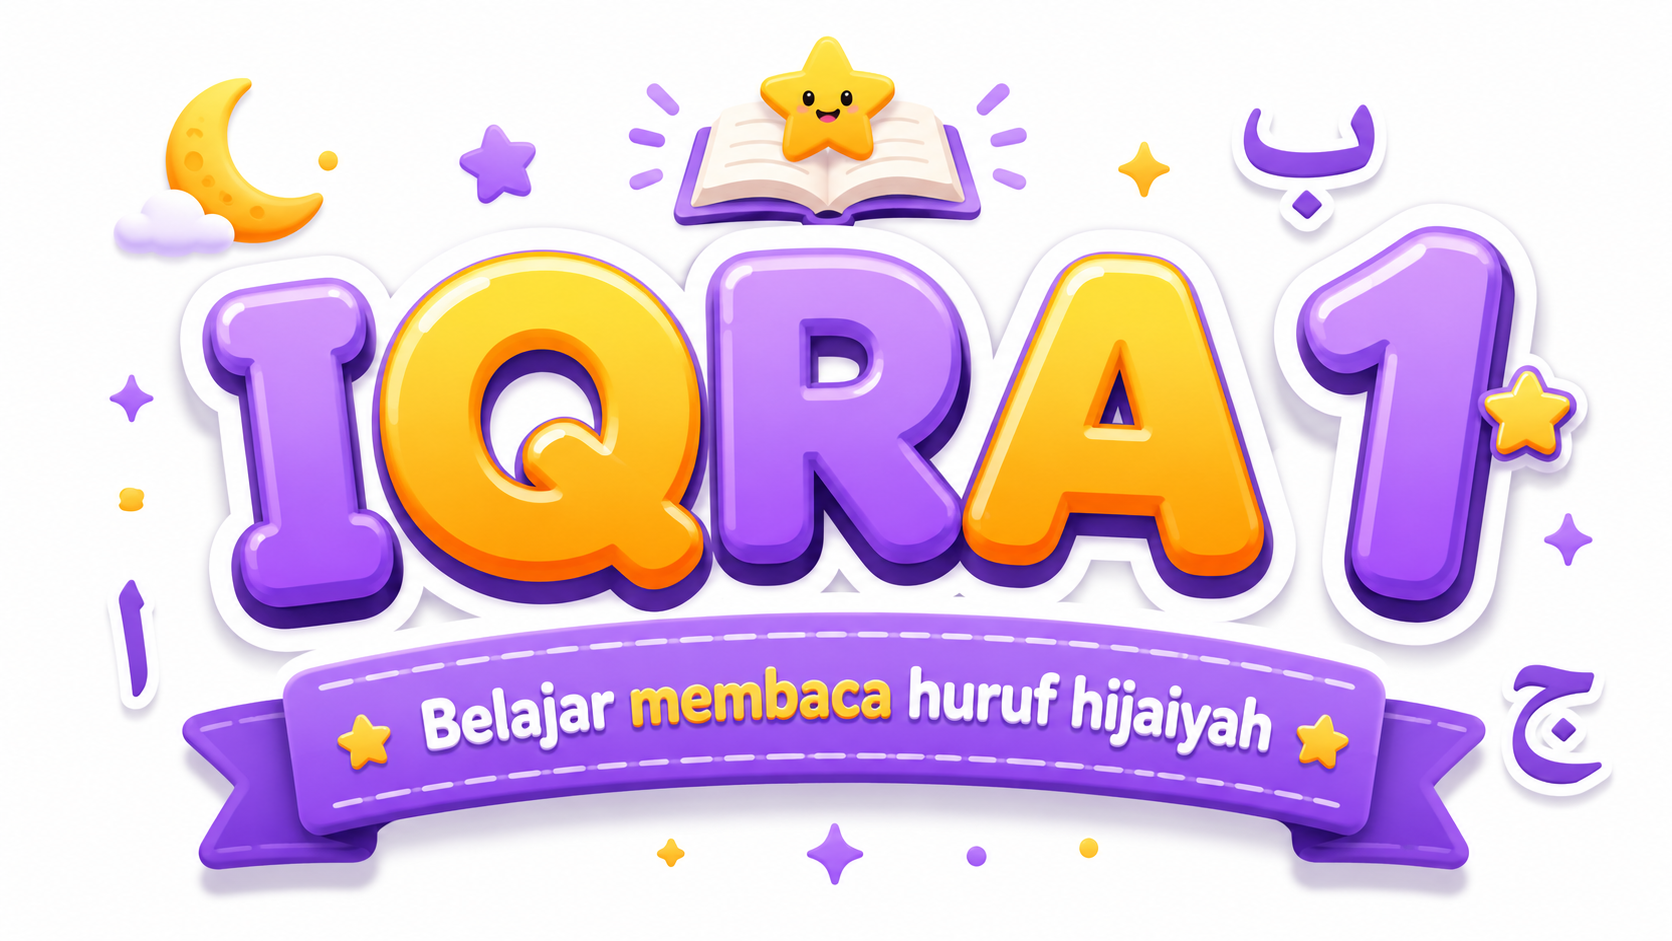
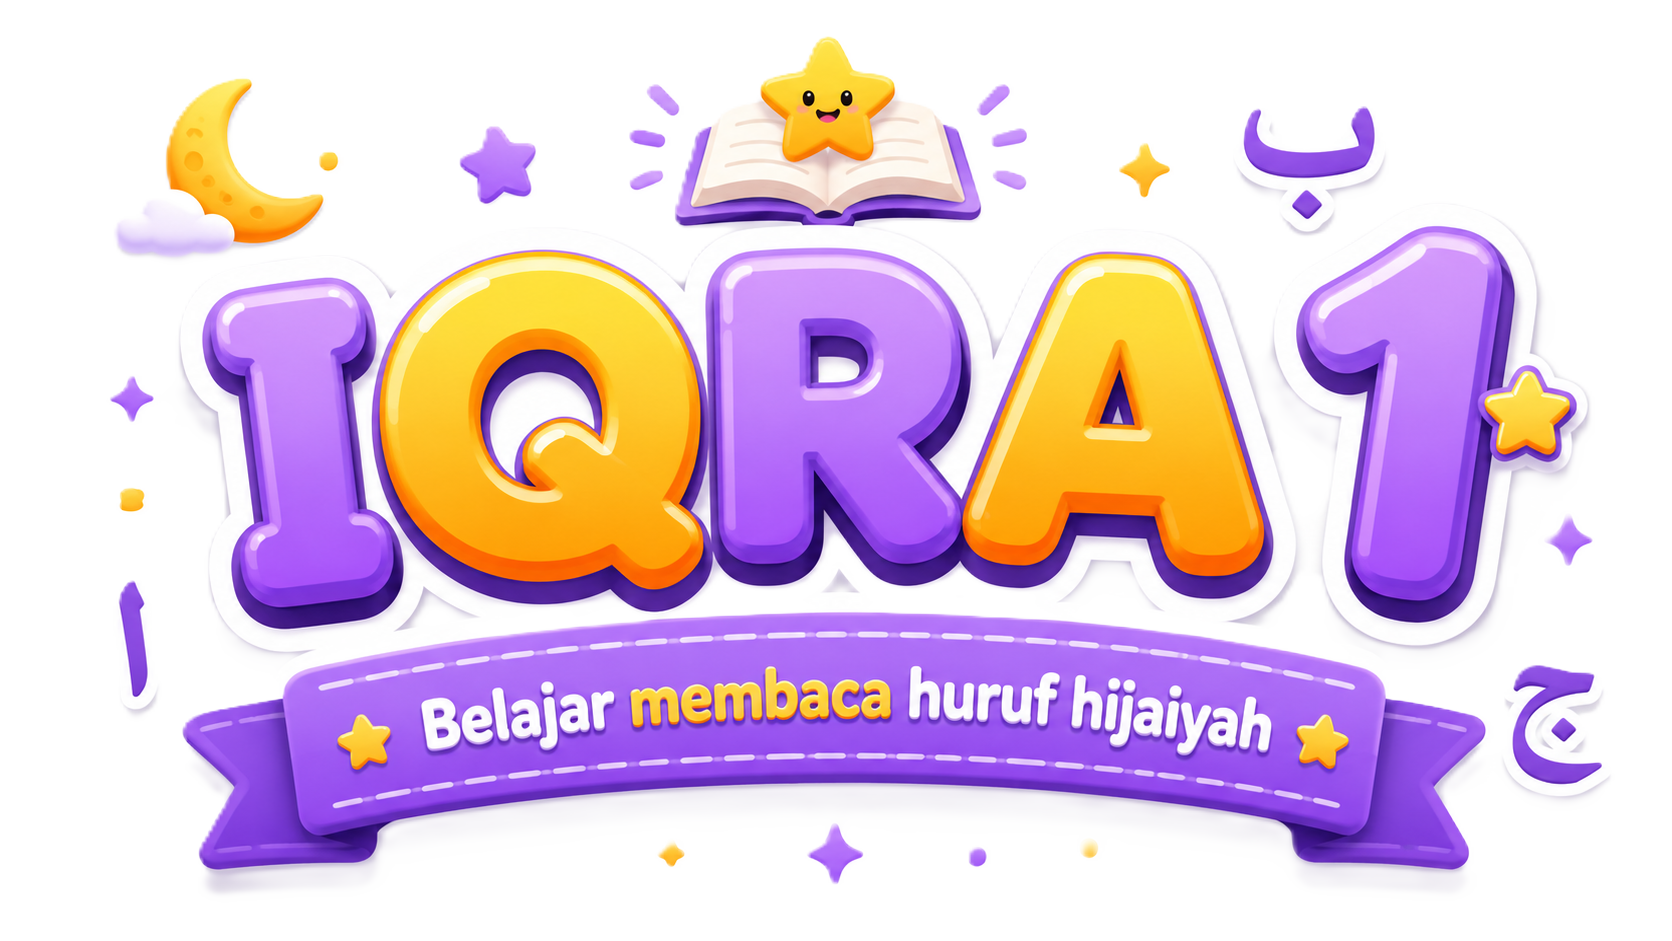
chore : standarisasi asset
-ganti head pada halama iqra 1 menggunakan asset terbaru

diff --git a/lib/src/learning_screens.dart b/lib/src/learning_screens.dart
@@ -796,8 +796,6 @@ class _BendaScreenState extends ConsumerState<BendaScreen> {
       onPage: (next) => setState(() => pageIndex = next),
       itemBuilder: (context, itemIndex, color) {
         final item = filtered[itemIndex];
-        final favoriteId = item.id.isEmpty ? 'benda:${item.name}' : item.id;
-        final fav = app.favorites.contains(favoriteId);
         final mastered = app.bendaMastered.contains(
           progressMasteryKey(item.name),
         );
@@ -810,9 +808,6 @@ class _BendaScreenState extends ConsumerState<BendaScreen> {
           badge: _objectFamily(item),
           kind: _PremiumCardKind.object,
           mastered: mastered,
-          favorite: fav,
-          onFavorite: () =>
-              ref.read(appStateProvider).toggleFavorite(favoriteId),
           onTap: () => ref.read(appStateProvider).markBendaViewed(item.name),
         );
       },
@@ -1281,8 +1276,6 @@ class _PremiumLearningCard extends StatelessWidget {
     required this.badge,
     required this.kind,
     required this.onTap,
-    this.favorite = false,
-    this.onFavorite,
     this.mastered = false,
   });
 
@@ -1294,8 +1287,6 @@ class _PremiumLearningCard extends StatelessWidget {
   final String badge;
   final _PremiumCardKind kind;
   final VoidCallback onTap;
-  final bool favorite;
-  final VoidCallback? onFavorite;
   final bool mastered;
 
   @override
@@ -1354,17 +1345,10 @@ class _PremiumLearningCard extends StatelessWidget {
               Positioned(
                 right: 7,
                 top: 7,
-                child: GestureDetector(
-                  onTap: onFavorite,
-                  child: Icon(
-                    kind == _PremiumCardKind.object
-                        ? (favorite
-                              ? Icons.star_rounded
-                              : Icons.star_border_rounded)
-                        : Icons.auto_awesome_rounded,
-                    color: const Color(0xffFFB927),
-                    size: 22,
-                  ),
+                child: const Icon(
+                  Icons.auto_awesome_rounded,
+                  color: Color(0xffFFB927),
+                  size: 22,
                 ),
               ),
               Column(
@@ -1783,15 +1767,9 @@ class _IqraLessonState extends ConsumerState<IqraLesson> {
                 latinEnabled: widget.readingHelp,
                 mastered: app.iqraMastered,
                 feedback: '',
-                favorites: app.favorites,
                 onSelect: (i) {
                   setState(() => index = i);
                   ref.read(appStateProvider).markIqraViewed(iqraItems[i]);
-                },
-                onFavorite: (item) {
-                  ref
-                      .read(appStateProvider)
-                      .toggleFavorite('iqra:${item.latin}');
                 },
               ),
             ],
@@ -1957,60 +1935,13 @@ class _IqraHeroSection extends StatelessWidget {
                   const Spacer(),
                   Align(
                     alignment: Alignment.centerLeft,
-                    child: ConstrainedBox(
-                      constraints: BoxConstraints(
-                        maxWidth: tablet ? width * .55 : width * .58,
-                      ),
-                      child: Column(
-                        crossAxisAlignment: CrossAxisAlignment.start,
-                        children: [
-                          Text(
-                            'IQRA 1',
-                            maxLines: 1,
-                            style: TextStyle(
-                              fontSize: tablet ? 54 : 40,
-                              height: .95,
-                              color: const Color(0xff1498BD),
-                              fontWeight: FontWeight.w900,
-                              letterSpacing: 0,
-                              shadows: [
-                                Shadow(
-                                  blurRadius: 18,
-                                  color: const Color(
-                                    0xff40C8F4,
-                                  ).withValues(alpha: .42),
-                                ),
-                                const Shadow(
-                                  blurRadius: 0,
-                                  color: Colors.white,
-                                  offset: Offset(0, 2),
-                                ),
-                              ],
-                            ),
-                          ),
-                          const SizedBox(height: 10),
-                          Container(
-                            padding: const EdgeInsets.symmetric(
-                              horizontal: 14,
-                              vertical: 9,
-                            ),
-                            decoration: BoxDecoration(
-                              color: Colors.transparent,
-                              borderRadius: BorderRadius.circular(999),
-                              border: Border.all(color: Colors.transparent),
-                            ),
-                            child: const Text(
-                              'Belajar membaca Huruf Hijaiyah ✨',
-                              maxLines: 2,
-                              overflow: TextOverflow.ellipsis,
-                              style: TextStyle(
-                                color: Color(0xff335D73),
-                                fontSize: 13,
-                                fontWeight: FontWeight.w900,
-                              ),
-                            ),
-                          ),
-                        ],
+                    child: SizedBox(
+                      width: tablet ? 460 : 270,
+                      height: tablet ? 150 : 126,
+                      child: Image.asset(
+                        'assets/images/Belajar_Iqra.png',
+                        fit: BoxFit.contain,
+                        alignment: Alignment.centerLeft,
                       ),
                     ),
                   ),
@@ -2318,20 +2249,16 @@ class _IqraCatalogSection extends StatelessWidget {
     required this.selectedIndex,
     required this.latinEnabled,
     required this.mastered,
-    required this.favorites,
     required this.feedback,
     required this.onSelect,
-    required this.onFavorite,
   });
 
   final List<IqraItem> items;
   final int selectedIndex;
   final bool latinEnabled;
   final Set<String> mastered;
-  final Set<String> favorites;
   final String feedback;
   final ValueChanged<int> onSelect;
-  final ValueChanged<IqraItem> onFavorite;
 
   @override
   Widget build(BuildContext context) => _IqraSectionCard(
@@ -2363,9 +2290,7 @@ class _IqraCatalogSection extends StatelessWidget {
                   selected: selectedIndex == i,
                   latinEnabled: latinEnabled,
                   mastered: isIqraMastered(mastered, item),
-                  favorite: favorites.contains('iqra:${item.latin}'),
                   onTap: () => onSelect(i),
-                  onFavorite: () => onFavorite(item),
                 );
               },
             );
@@ -2402,9 +2327,7 @@ class _IqraLetterCard extends StatelessWidget {
     required this.selected,
     required this.latinEnabled,
     required this.mastered,
-    required this.favorite,
     required this.onTap,
-    required this.onFavorite,
   });
 
   final int number;
@@ -2412,9 +2335,7 @@ class _IqraLetterCard extends StatelessWidget {
   final bool selected;
   final bool latinEnabled;
   final bool mastered;
-  final bool favorite;
   final VoidCallback onTap;
-  final VoidCallback onFavorite;
 
   Color get statusColor {
     if (mastered) return const Color(0xff38C985);
@@ -2480,19 +2401,6 @@ class _IqraLetterCard extends StatelessWidget {
                     ),
                     const Spacer(),
                     Icon(statusIcon, size: 18, color: statusColor),
-                    const SizedBox(width: 2),
-                    GestureDetector(
-                      onTap: onFavorite,
-                      child: Icon(
-                        favorite
-                            ? Icons.favorite_rounded
-                            : Icons.favorite_border_rounded,
-                        size: 18,
-                        color: favorite
-                            ? const Color(0xffFF6FAE)
-                            : const Color(0xffB8BED2),
-                      ),
-                    ),
                   ],
                 ),
                 const Spacer(flex: 2),